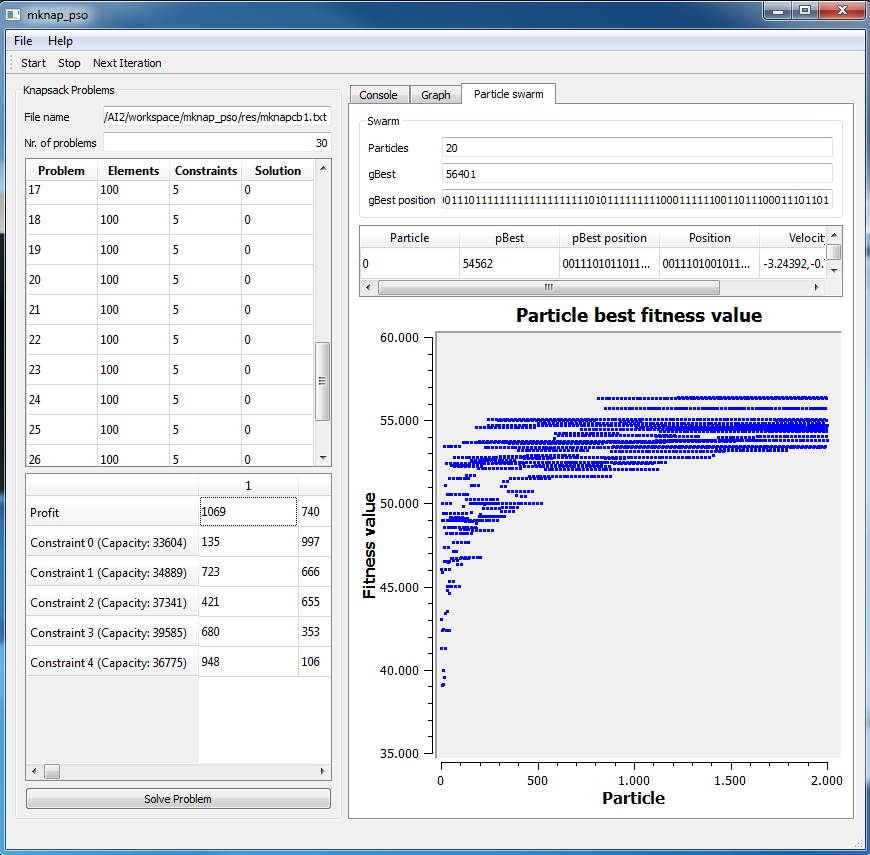
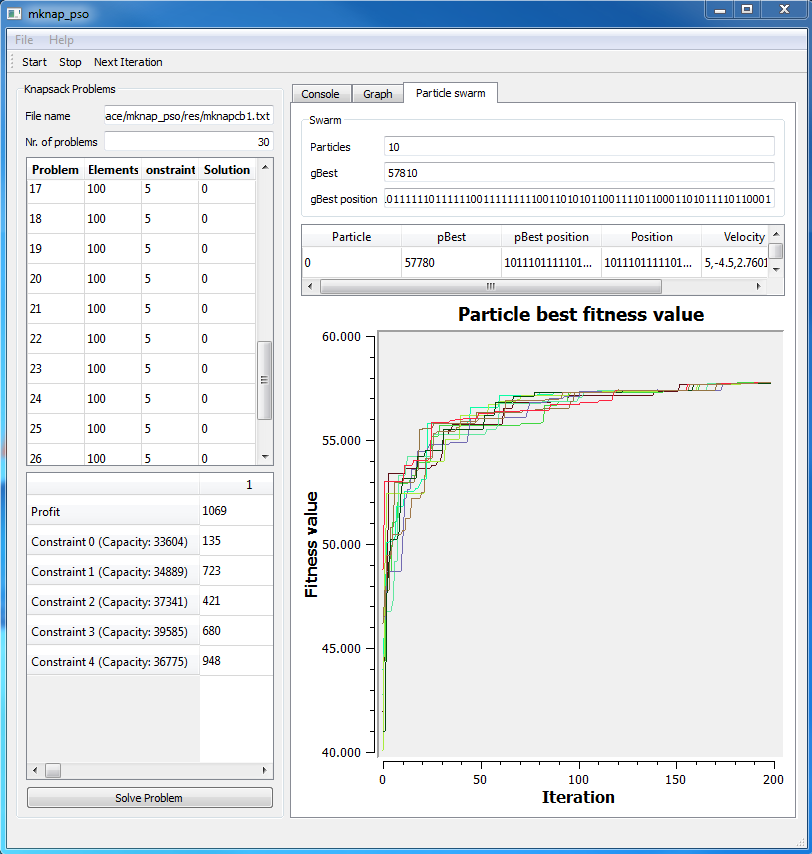
Mainly documentation...

diff --git a/doc/elaboration.tex b/doc/elaboration.tex
@@ -8,6 +8,7 @@
 \usepackage{graphicx}
 \usepackage{float}
 \usepackage{amsmath}
+\usepackage{pbox}
 
 \lstdefinestyle{customc++}{
   belowcaptionskip=1\baselineskip,
@@ -31,7 +32,7 @@
 \title{Implementation of Particle Swarm Optimization for the multi-dimensional knapsack problem \\
 \vspace{2 mm} {\large Coursework Artificial Intelligence 2}}
 \author{JeGa\\
-        Applied Computer Science,\\
+        Applied Computer Science\\
 		HTWG Konstanz}
 \date{\today}
 \maketitle
@@ -49,12 +50,12 @@ Particle Swarm Optimization (PSO) is a metaheuristic search algorithm which uses
 
 \section{Introduction}
 \label{lbl-intro}
-Because PSO was designed for continues problems, some changes need to be done to use it for discrete problems. This document covers shortly the PSO for continues problems (\ref{lbl-pso-cont}) and the changes to be made to use PSO for discrete problems (\ref{lbl-pso-disc}). The next chapter (\ref{lbl-mknap}) describes multidimensional the knapsack problem and the adoption of the PSO.
+Because PSO was designed for continues problems, some changes need to be done to use it for discrete problems. This document covers shortly the PSO for continues problems (\ref{lbl-pso-cont}) and the changes to be made to use PSO for discrete problems (\ref{lbl-pso-disc}). The next chapter (\ref{lbl-mknap}) describes the multidimensional knapsack problem and the adaption of the PSO.
 Implementation details are outlined in chapter \ref{lbl-impl}. In chapter \ref{lbl-tests} the performance of the algorithm and implementation is analysed. The last chapters (\ref{lbl-app}) and (\ref{lbl-impr}) describe the application and the improvements that can be made.
 
 \section{PSO for continues problems}
 \label{lbl-pso-cont}
-Particle Swarm Optimization is a swarm algorithm based on the flocking behaviour of birds were a swarm of birds searches for food. Every bird (particle) uses its own knowledge and the swarms knowledge to direct its search towards the food. In PSO, a particle represents a possible solution. It consist of a position $x_i$ and a velocity $v_i$. Each particle saves its best position (particle best - pBest). Additionally the best position of all particles in the swarm is saved (global best - gbest). Each particle updates its position based on the current velocity, the particles best position and the global best position. If the problem is multidimensional, based on each dimension $d$ of the solution vector, the new velocity/position must be calculated.
+Particle Swarm Optimization is a swarm algorithm based on the flocking behaviour of birds were a swarm of birds searches for food. Every bird (particle) uses its own knowledge (cognitive part) and the swarms knowledge (social part) to direct its search towards the food. In PSO, a particle represents a possible solution. It consist of a position $x_i$ and a velocity $v_i$. Each particle saves its best position (particle best - pBest). Additionally the best position of all particles in the swarm is saved (global best - gbest). Each particle updates its position based on the current velocity, the particles best position and the global best position. If the problem is multidimensional, based on each dimension $d$ of the solution vector, the new velocity/position must be calculated.
 \begin{equation}
 \label{formula-1}
 v_i = \omega * v_i + c_1 * rand_1 * (x_{pbest} - x_i) + c_2 * rand_2 * (x_{gbest} - x_i)
@@ -64,30 +65,29 @@ v_i = \omega * v_i + c_1 * rand_1 * (x_{pbest} - x_i) + c_2 * rand_2 * (x_{gbest
 x_i = x_i + v_i
 \end{equation}
 
-$\omega$ is the inertia weight which specify how strong the current velocity contributes to the new velocity. $c_1$ and $c_2$ are constants which weight the personal and the swarms evidence. $rand_1$ and $rand_2$ are random values from $[0,1]$. Additionally, the new velocity $v_i$ is limited by a constant $v_ax$.
+$\omega$ is the inertia weight which specify how strong the current velocity contributes to the new velocity. $c_1$ and $c_2$ are constants which weight the personal and the swarms evidence. $rand_1$ and $rand_2$ are random values from $[0,1]$. Additionally, the new velocity $v_i$ is limited by a constant $v_{max}$.
 
 \section{PSO for discrete binary problems}
 \label{lbl-pso-disc}
 To use PSO for discrete binary problems, some changes need to be made. Unlike in continues space, a multidimensional solution vector (position) consist now of discrete binary values (0/1). The velocity of a particle is expressed as a vector of probabilities, that the elements at each dimension have the value 1 (rate of change). This means, a particle flies fast if all the binary values change and slow if nothing changes. However, the velocity formula remains the same, but the calculation of the new position changes slightly. At first, to limit the velocity value to a valid probability, a logistic transformation is made.
 \begin{equation}
 \label{formula-3}
-S(v_i) = 1.0 / (1.0 + e^{(-v_i)});
+S(v_i) = 1.0 / (1.0 + e^{(-v_i)})
 \end{equation}
 
 The output of formula is a velocity limited with the sigmoid function to $[0.0, 1.0]$. To calculate the new position, an update strategy is needed. The used update strategy is the original strategy from Kennedy and Eberhart \cite{bib-discrete}.
-\begin{multline}
-\label{formula-4}
-if (rand() < S(v_i))\\
-	x_i = 1\\
-else\\
+\begin{lstlisting}
+if (rand() < S(v_i))
+	x_i = 1
+else
 	x_i = 0
-\end{multline}
+\end{lstlisting}
 
 \section{Multidimensional knapsack problem}
 \label{lbl-mknap}
 Because the multidimensional (multi-constraint) knapsack problem is already described in detail in a lot of papers, it is only briefly described here. To sum up, a number of elements need to be packed into a knapsack. Each element has a profit value, and several constraint values. The aim is, to maximize the profit (fitness value) while not violating any constraint. A solution is described as a binary vector with the dimension as the number of elements to pack. 1 means the element is in the knapsack, 0 means it is not in the knapsack. An important addition to the traditional discrete PSO are the constraint values. Special care has to be taken to identify invalid solutions.\\
 
-A particle consists of the following information (\ref{fig-particle}):
+A particle consists of the following information (figure \ref{fig-particle}):
 \begin{itemize}
 \item Binary solution vector (the current position)
 \item Real velocity vector
@@ -96,24 +96,24 @@ A particle consists of the following information (\ref{fig-particle}):
 
 \begin{figure}[H]
     \centering
-    \includegraphics[width=400px]{images/particle.PNG}
+    \includegraphics[width=250px]{images/particle.PNG}
     \caption{Particle}
     \label{fig-particle}
 \end{figure}
 
 \section{Implementation}
 \label{lbl-impl}
-This chapter describes the implementation in detail and shows some extracts from the source code. \ref{fig-algo} shows the flow diagram of the implemented algorithm. The single steps and their implementation are outlined in the following sections.
+This chapter describes the implementation in detail and shows some extracts from the source code. Figure \ref{fig-algo} shows the flow diagram of the implemented algorithm. The single steps and their implementation are outlined in the following sections.
 
 \begin{figure}[H]
     \centering
-    \includegraphics[width=250px]{images/algo.png}
+    \includegraphics[width=200px]{images/algo.png}
     \caption{Algorithm}
     \label{fig-algo}
 \end{figure}
 
 \subsection{Algorithm}
-At first, the particles are initialized with random positions and random velocities. After that, the profit of the particular solution is calculated and saved as gBest value. The highest profit of all particles is saved as the swarms gBest value. It is very likely, that the particles have invalid positions, so at this point the penalty values are very high.
+At first, the particles are initialized with random positions and random velocities. After that, the profit of the particular solution is calculated and saved as pBest value. The highest profit of all particles is saved as the swarms gBest value. It is very likely, that the particles have invalid positions, so at this point the penalty values are very high.
 
 \begin{lstlisting}[caption="Solver.cpp"]
 for (auto &i : swarm.getParticles()) {
@@ -130,7 +130,7 @@ for (auto &i : swarm.getParticles()) {
 }
 \end{lstlisting}
 
-After initialization, the method \lstinline$findSolution()$ is called, to iterate through all particles of the swarm. For each dimension of the particles the formula \ref{formula-1} and \ref{formula-2} are applied.
+After initialization, the method \lstinline$findSolution()$ is called, to iterate through all particles of the swarm. For each dimension of the particles the formula \ref{formula-1} and \ref{formula-2} are applied. Dependent on \lstinline{(pBestD - currentPositionD)} and \lstinline{(gBestD - currentPositionD)} the output values are \lstinline$0$, \lstinline$-1$ or \lstinline$1$ and change the probability of the position to be 1 or 0.
 
 \begin{lstlisting}[caption="Solver.cpp"]
 double newVelocityD = parameters.getInertiaWeight() *
@@ -141,10 +141,11 @@ double newVelocityD = parameters.getInertiaWeight() *
 	(gBestD - currentPositionD);
 
 if (newVelocityD > parameters.getVMax())
-	newVelocityD = parameters.getVMax();
+    newVelocityD = parameters.getVMax();
+else if (newVelocityD < -parameters.getVMax())
+    newVelocityD = -parameters.getVMax();
 
-/* K. and E. */
-int newPositionD = updateStrategy_standard(
+int newPositionD = updateStrategy->updatePosition(
 	currentPositionD, newVelocityD);
 \end{lstlisting}
 
@@ -165,7 +166,19 @@ if (pBestTmp > i.getBestValue()) {
 \end{lstlisting}
 
 \subsection{Update strategies}
-There are several strategies available, to update the particles position based on the velocity. The current used startegie in the implementation is the original strategie from Kennedy and Eberhart \cite{bib-discrete}. A novel based update strategy \cite{bib-novel} and the improved update strategie from Qi Shen are also implemented.
+There are several strategies available, to update the particles position based on the velocity. The current used strategy in the implementation is the original strategy from Kennedy and Eberhart \cite{bib-discrete}. A novel based update strategy \cite{bib-novel} and the improved update strategie from Qi Shen are also implemented. The implementation of the standard update strategy is showed in the following code extract.
+
+\begin{lstlisting}[caption="UpdateStrategy.cpp"]
+double randomValue = getRandomDoubleValue(0.0, 1.0);
+
+int newPositionD;
+if (randomValue < velocity)
+    newPositionD = 1;
+else
+    newPositionD = 0;
+\end{lstlisting}
+
+The variable \lstinline{velocity} is the output of the logistic transformation. If the velocity is high, the probability of the position in the current dimension that it gets the value 1 is high. The probability that the value is 0 is low.
 
 \subsection{Penalty function}
 A very important part of the algorithm is the penalty function. Because the knapsack problem has multiple constraints, invalid positions can occur. The penalty function therefore adjusts the fitness value to a valid fitness value (based on several different parameters). There are a many penalty functions to choose from. It is important, to choose a good penalty function, because it does strongly influence the optimization capabilities of PSO. If the penalty function is too weak, invalid positions are more likely and the algorithm does not perform well. If it is too large, it negatively influences the performance of PSO.\\
@@ -194,39 +207,85 @@ The available parameters are explained in the following table.\\
 
 \begin{tabular}{|l|l|}
 	\hline
-	Inertia weight ($\omega$) & Specifies the impact of the current velocity to the new velocity \\ \hline
+	Inertia weight ($\omega$) & \pbox{10cm}{Specifies the impact of the current velocity to the new velocity. If the inertia weight is too high, the particles do not change their positions (they have no confidence in the other particles knowledge). Also a low $V_{max}$ could balance this, the behaviour is not very good. A too low inertia weight results in a too heavy change of the particles position. Figure \ref{fig-inertia} shows the differences between low and high inertia values.} \\ \hline
+	Maximal velocity ($V_{max}$) & \pbox{10cm}{Limits the velocity. A lesser $V_{max}$ value allows more differences in the particles position. However, it does take longer time until they converge. If the $V_{max}$ value is 2, the output velocities of the sigmoid function can only be in the range of [0.12, 0.88]. So if the velocity is very high (e.g. v = 10.0, Sig(v) = 0.88), the possibility that the particles position is 0 (1 - 0.88) is still there. Figure \ref{fig-vmax} shows the difference between a low and high $V_{max}$ value.} \\ \hline
 	Constant 1 ($c_1$) & Weights the evidence of the particle \\ \hline
 	Constant 2 ($c_2$) & Weights the evidence of the swarm \\ \hline
-	Maximal velocity ($V_{max}$) & Limits the velocity \\ \hline
 \end{tabular}\\
 
-The best found configuration is displayed in image TODO.
+\begin{figure}[H]
+    \centering
+    \includegraphics[width=200px]{images/inertia.PNG}
+    \caption{Parameter}
+    \label{fig-inertia}
+\end{figure}
+
+\begin{figure}[H]
+    \centering
+    \includegraphics[width=200px]{images/vmax.PNG}
+    \caption{Parameter}
+    \label{fig-vmax}
+\end{figure}
+
+The best found configuration is displayed in figure \ref{fig-param}.
+
+\begin{figure}[H]
+    \centering
+    \includegraphics[width=200px]{images/parameter.PNG}
+    \caption{Parameter}
+    \label{fig-param}
+\end{figure}
 
 \section{Tests}
 \label{lbl-tests}
 For the tests, the \lstinline$mknapcb1.txt$ problems from the OR library were used. \\
-The very low start values are a result of the penalty function. Because all particles are initialized with random values, it is very likely that the particles violate a constraint and are invalid. Because of that, the particles get a very high penalty. At each iteration, each particles changes it position according to its own current velocity, its own knowledge of the best position and the swarms knowledge of the best position (and some random factors).\\
+Dependent on the problem, it can be, that the start values are very low ($< 0$). The very low start values are a result of the penalty function. Because all particles are initialized with random values, it is very likely that the particles violate a constraint and are invalid. Because of that, the particles get a very high penalty.\\
 
 The following table shows the tests with different parameters.
+Picture TODO shows the different particles and its pBest values.\\
 
-Picture TODO shows the different particles and its pBest values.
-
-The implemented PSO does converge towards 5\% above the optimum. it does not work optimal, so there are some improvements to do, which are outlined in chapter \ref{lbl-impr}.
-
-\section{Application}
-\label{lbl-app}
-The application is able to parse files from the OR library with the same format as $mknapcb1.txt$. The GUI   provides tables to view the problems and its values. The user is able to set different parameters via the File-settings dialog. He can choose between automatic or manual (step by step) iteration. Note that the GUI is made only for testing purpose, so there are still some improvements to do. The algorithm is done in the GUI thread, so the GUI blocks (algorithm needs a worker thread).
+The implemented PSO does converge towards 5\% below the optimum. it does not work optimal, so there are some improvements to do, which are outlined in chapter \ref{lbl-impr}. However, one can see that PSO converges very fast. There are only a few steps needed, until all particles converge to a common optimum. Figure \ref{fig-p30_200it_p1} shows the gBest value of the swarm with a iteration value of 200. Figure \ref{fig-p30_200it_p1_particles} shows the particles and how they converge to a common optimum.
 
 \begin{figure}[H]
     \centering
-    \includegraphics[width=400px]{images/image_main.PNG}
+    \includegraphics[width=200px]{images/p30_200it_p1.PNG}
+    \caption{Global swarm optimum}
+    \label{fig-p30_200it_p1}
+\end{figure}
+
+\begin{figure}[H]
+    \centering
+    \includegraphics[width=200px]{images/p30_200it_p1_particles.PNG}
+    \caption{Particles optimum}
+    \label{fig-p30_200it_p1_particles}
+\end{figure}
+
+In figure \ref{fig-particles_optimum} one can see, that all particles have almost the same pBest value.
+
+\begin{figure}[H]
+    \centering
+    \includegraphics[width=250px]{images/particles_optimum.PNG}
+    \caption{Particles optimum}
+    \label{fig-particles_optimum}
+\end{figure}
+
+\section{Application}
+\label{lbl-app}
+The application is able to parse files from the OR library with the same format as $mknapcb1.txt$. The GUI   provides tables to view the problems and its values. The user is able to set different parameters via the File-settings dialogue. He can choose between automatic or manual (step by step) iteration. Note that the GUI is made only for testing purpose, so there are still some improvements to do. The algorithm is done in the GUI thread, so the GUI blocks (algorithm needs a worker thread). To run the algorithm, a problem file has to be parsed. After that, a problem can selected from the table. With the button "Solve Problem" the algorithm is started. The parameters can be set with "File-set parameter".
+
+\begin{figure}[H]
+    \centering
+    \includegraphics[width=250px]{images/image_main.PNG}
     \caption{Application}
     \label{fig-app}
 \end{figure}
 
 \section{Critique and improvements}
 \label{lbl-impr}
-The discrete PSO does converge towards the optimum, however it does not work optimal. The global best position differs dependent of the problem in average of about 5\% from the optimal value. One problem is the penalty function which could be optimized. It is difficult, to find a suitable penalty function for constrained values. A different approach would be to use TODO. Another optimization is to use a local best position instead of the swarms best position for the calculation of the velocity. In this case, only the $n$ nearest neighbour particles are used to calculate the lBest value.
+The discrete PSO does converge towards the optimum, however it does not work optimal. The global best position remains dependent of the problem in average of about 5\% below the optimal value. One problem is the penalty function which could be optimized. It is difficult, to find a suitable penalty function for constrained values. A different approach would be to use greed algorithm or surrogate duality method. Another optimization is to use a local best position instead of the swarms best position for the calculation of the velocity. In this case, only the $n$ nearest neighbour particles are used to calculate the lBest value. A advantage of PSO is, that there are only a few parameters to adjust. Also the algorithm does converge very fast near the optimum.
+
+\section{Paper review}
+Wang, Wang, Fu and Zhe present a new novel probability update strategy for the binary discrete PSO \cite{bib-novel}.
 
 \newpage
 

diff --git a/src/gui/MainWindow.cpp b/src/gui/MainWindow.cpp
@@ -25,6 +25,7 @@ namespace mknap_pso
         connect(actionStart, SIGNAL(triggered()), this, SLOT(toolbarStart()));
         connect(actionStop, SIGNAL(triggered()), this, SLOT(toolbarStop()));
         connect(actionNext_Iteration, SIGNAL(triggered()), this, SLOT(toolbarNext()));
+        connect(actionDo_pre_defined_test, SIGNAL(triggered()), this, SLOT(preDefinedTestClicked()));
 
         consoleEdit->append("> Choose file with multidimensional (multi-constraint) knapsack problem to solve.");
 
@@ -123,15 +124,52 @@ namespace mknap_pso
 
     void MainWindow::solveBtnClicked()
     {
-        //for (int j = 0; j < 10; ++j) {
         toolbarStart();
         for (int i = 0; i < settingsDialog->getParameters().getIterations(); ++i) {
             QString outTxt = "> Iteration: " + QString::number(i);
             consoleEdit->append(outTxt);
             toolbarNext();
         }
-        std::cout << toolbarStop() << " " << std::endl;
-        //}
+        toolbarStop();
+    }
+
+    void MainWindow::preDefinedTestClicked()
+    {
+        int gBest;
+        QString outTxt;
+
+        plot->clear();
+        consoleEdit->clear();
+        swarmPlot->clearCurves();
+
+        solver.setParameters(settingsDialog->getParameters());
+
+        // Problem 1
+        solver.startSolveProblem(parser.getProblemsReference().at(0));
+        for (int i = 0; i < settingsDialog->getParameters().getIterations(); ++i)
+            runFunction();
+        gBest = solver.stopSolveProblem();
+
+        outTxt = "Problem 0: " + QString::number(gBest);
+        consoleEdit->append(outTxt);
+
+        // Problem 10
+        solver.startSolveProblem(parser.getProblemsReference().at(0));
+        for (int i = 0; i < settingsDialog->getParameters().getIterations(); ++i)
+            runFunction();
+        gBest = solver.stopSolveProblem();
+
+        outTxt = "Problem 10: " + QString::number(gBest);
+        consoleEdit->append(outTxt);
+
+        // Problem 30
+        solver.startSolveProblem(parser.getProblemsReference().at(0));
+        for (int i = 0; i < settingsDialog->getParameters().getIterations(); ++i)
+            runFunction();
+        gBest = solver.stopSolveProblem();
+
+        outTxt = "Problem 30: " + QString::number(gBest);
+        consoleEdit->append(outTxt);
     }
 
     void MainWindow::openFile()
@@ -213,7 +251,9 @@ namespace mknap_pso
     void MainWindow::about()
     {
         QMessageBox::about(this, tr("About mknap_pso"),
-                           tr("This application solves the mknap problem with pso."));
+                           "This application solves the mknap problem with discrete binary Particle Swarm Optimization.\n\n"
+                           "Author: JeGa\n"
+                           "Github: https://github.com/JeGa/mknap_pso");
     }
 
     void MainWindow::printSwarmToConsole(Swarm &swarm)

diff --git a/src/gui/MainWindow.h b/src/gui/MainWindow.h
@@ -39,6 +39,7 @@ namespace mknap_pso
 
         private slots:
             void solveBtnClicked();
+            void preDefinedTestClicked();
             void openFile();
             void about();
             void tableItemClicked(QTableWidgetItem *item);
